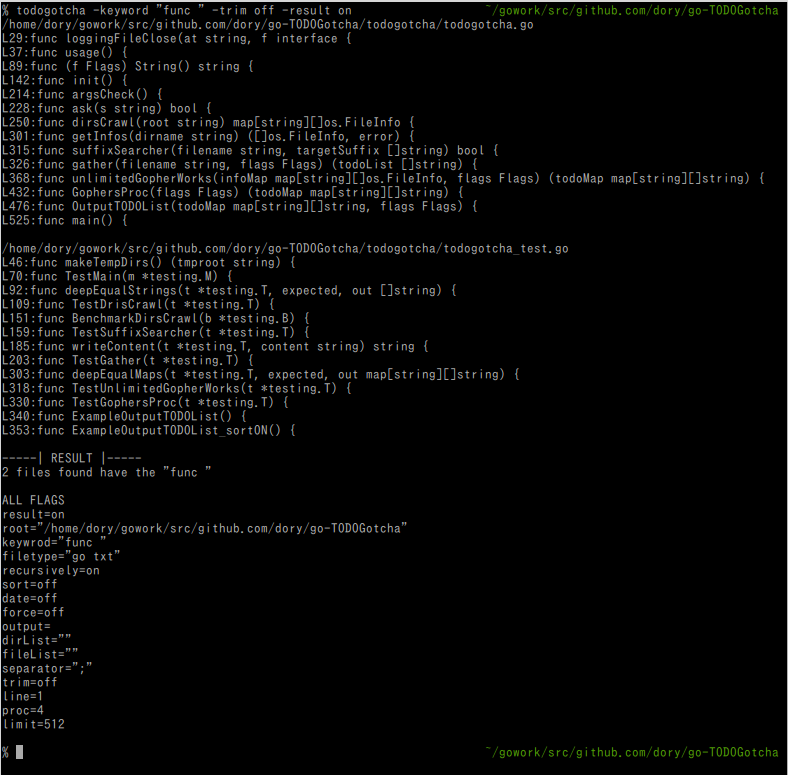
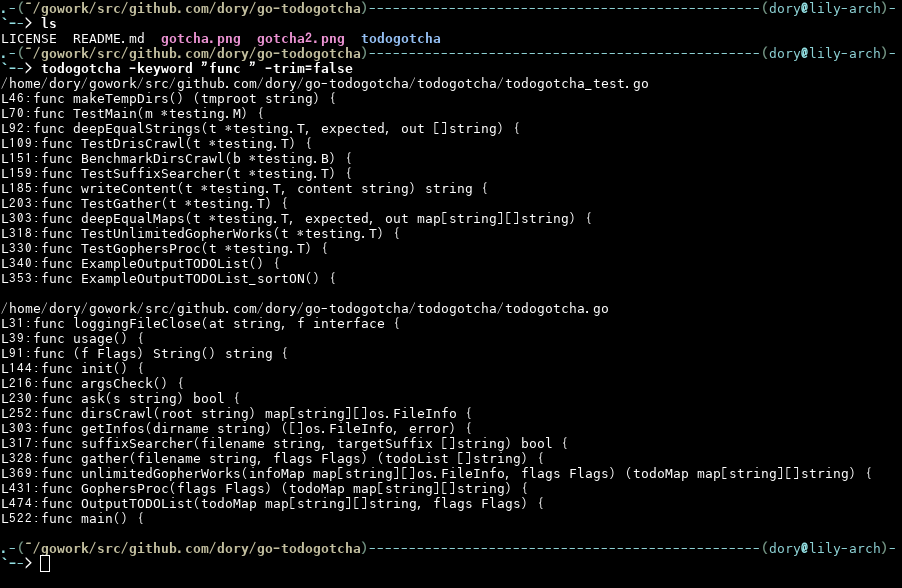
bata  Changes to be committed: 	modified:   README.md 	modified:   gotcha.png 	modified:   gotcha2.png 	modified:   todogotcha/todogotcha.go 	modified:   todogotcha/todogotcha_test.go

diff --git a/todogotcha/todogotcha.go b/todogotcha/todogotcha.go
@@ -1,6 +1,6 @@
 package main
 
-// TODO: エラーログの吐き方考えたい, error buffer 作って溜めてリザルトで吐く?
+// TODO: エラーログの吐き方 error buffer 作って溜めてリザルトで吐く?
 //     : 複数のgoroutineが同じロガーに同時にアクセスしてもlogがよろしくやってくれるのか調べてない
 //     : 普通に考えたら裏で常に走りながらチャンネルで待ち受けてそうだけどどうだろう
 //     : pkgのsrcみると大丈夫そう
@@ -11,6 +11,8 @@ package main
 //     : goroutineいっぱい使ってみたい
 
 // TODO: Refactor, フラグにくっついてるflag.dataの初期化をinitからレシーバに切り出す
+
+// TODO: Review, To simple
 
 import (
 	"bufio"
@@ -59,16 +61,16 @@ type Flags struct {
 	fileList    *string
 	dirList     *string
 	separator   *string
-	recursively *string
+	recursively *bool
 
 	// Flags for Output
-	result *string
 	output *string
-	force  *string
-	sort   *string
-	date   *string
+	result *bool
+	force  *bool
+	sort   *bool
+	date   *bool
 
-	trim  *string
+	trim  *bool
 	lines *uint
 
 	// TODO: Specify GOMAXPROCS. Maybe future delete this
@@ -109,28 +111,28 @@ func (f Flags) String() string {
 	tmp += fmt.Sprintf("proc=%v\n", runtime.GOMAXPROCS(0))
 	tmp += fmt.Sprintf("limit=%v\n", *flags.limit)
 	return tmp
-	// NOTE: string(``)と+""でまとめてもいいけどわかりやすさと変更のためにこのままにする
+	// NOTE: string(``)と+""でまとめてもいいこのままで
 }
 
 // NOTE: goはこの書き方でもファイル内限定のstaticっぽい扱い
-var flags = &Flags{
-	root:    flag.String("root", "./", "Specify recursively-search root directory"),
-	suffix:  flag.String("filetype", "go txt", `Specify target file types into the " "`),
-	keyword: flag.String("keyword", "TODO: ", "Specify target for list"),
+var flags = Flags{
+	root:    flag.String("root", "./", "Specify directory recursively-search root"),
+	suffix:  flag.String("filetype", ".go .txt", `Specify target file types`),
+	keyword: flag.String("keyword", "TODO: ", "Specify word for list"),
 
-	fileList:  flag.String("file", "", `Specify list target files`),
-	dirList:   flag.String("dir", "", `Specify list target directories, is not recursive serach`),
-	separator: flag.String("separator", ";", "Specify separator for specify directories and files"),
+	fileList:  flag.String("file", "", `Specify files`),
+	dirList:   flag.String("dir", "", `Specify search to directories, is not recursive`),
+	separator: flag.String("separator", ";", "Specify separator for Flags(dir and file)"),
 
 	output: flag.String("output", "", "Specify output to filepath"),
-	force:  flag.String("force", "off", "Ignore override confirm [on:off]?"),
+	force:  flag.Bool("force", false, "Ignore override confirm [true:false]?"),
 
-	recursively: flag.String("recursively", "on", `If this "off", not recursive search from root [on:off]?`),
-	result:      flag.String("result", "off", "Output result for flags state [on:off]?"),
-	sort:        flag.String("sort", "off", "Sort from directory name [on:off]?"),
-	date:        flag.String("date", "off", "Date [on:off]?"),
+	recursively: flag.Bool("recursively", true, `If this false, not recursive search from root [true:false]?`),
+	result:      flag.Bool("result", false, "Output result for flags state [true:false]?"),
+	sort:        flag.Bool("sort", false, "Sort to-do list [true:false]?"),
+	date:        flag.Bool("date", false, "Date [true:false]?"),
 
-	trim:  flag.String("trim", "on", "Trim the keyword from output [on:off]?"),
+	trim:  flag.Bool("trim", true, "Trim the keyword from output [true:false]?"),
 	lines: flag.Uint("line", 1, "Specify number of lines for gather"),
 
 	proc:  flag.Int("proc", 0, "Specify GOMAXPROCS"),
@@ -173,7 +175,7 @@ func init() {
 			log.Fatalf("init:%v", err)
 		}
 		// Check override to specify output file
-		if _, errstat := os.Stat(cleanpath); errstat == nil && *flags.force == "off" {
+		if _, errstat := os.Stat(cleanpath); errstat == nil && *flags.force == false {
 			if !ask(fmt.Sprintf("Override? %v", cleanpath)) {
 				os.Exit(1)
 			}
@@ -314,7 +316,7 @@ func getInfos(dirname string) ([]os.FileInfo, error) {
 
 func suffixSearcher(filename string, targetSuffix []string) bool {
 	for _, x := range targetSuffix {
-		if strings.HasSuffix(filename, "."+x) {
+		if strings.HasSuffix(filename, x) {
 			return true
 		}
 	}
@@ -339,18 +341,18 @@ func gather(filename string, flags Flags) (todoList []string) {
 			return nil
 		}
 		if index := strings.Index(sc.Text(), *flags.keyword); index != -1 {
-			if *flags.trim == "off" {
-				todoList = append(todoList, fmt.Sprintf("L%v:%s", i, sc.Text()))
+			if *flags.trim {
+				todoList = append(todoList, fmt.Sprintf("L%v:%s", i, sc.Text()[index+len(*flags.keyword):]))
 				tmpLineCount = 1
 				continue
 			} else {
-				todoList = append(todoList, fmt.Sprintf("L%v:%s", i, sc.Text()[index+len(*flags.keyword):]))
+				todoList = append(todoList, fmt.Sprintf("L%v:%s", i, sc.Text()))
 				tmpLineCount = 1
 				continue
 			}
 		}
 		if tmpLineCount != 0 && tmpLineCount < *flags.lines {
-			// TODO: (´・ω・`)つ [refactor]
+			// TODO: refactor
 			//todoList = append(todoList, fmt.Sprintf(" %s:%s", strings.Repeat(" ", len(fmt.Sprintf("%v", i))),  sc.Text()))
 			todoList = append(todoList, fmt.Sprintf(" %v:%s", i, sc.Text()))
 			tmpLineCount++
@@ -364,7 +366,6 @@ func gather(filename string, flags Flags) (todoList []string) {
 // にゃん
 // NOTE: gopher増やしまくるとcloseが間に合わなくてosのfile descriptor上限に突っかかる
 // goroutine にリミットを付けてファイルオープンを制限して上限に引っかからない様にしてみる
-// TODO: Review, To simple
 func unlimitedGopherWorks(infoMap map[string][]os.FileInfo, flags Flags) (todoMap map[string][]string) {
 
 	todoMap = make(map[string][]string)
@@ -407,7 +408,6 @@ func unlimitedGopherWorks(infoMap map[string][]os.FileInfo, flags Flags) (todoMa
 
 				// NOTE: Countermove "too many open files"
 				// gophersLimiterの読み出しで値が不確定だけどこれは大体合ってれば問題ないはず
-				// TODO: それでも気になるので、速度を落とさずいい方法があれば修正する
 				if gophersLimiter > gophersLimit/2 {
 					time.Sleep(time.Microsecond)
 				}
@@ -428,12 +428,11 @@ func unlimitedGopherWorks(infoMap map[string][]os.FileInfo, flags Flags) (todoMa
 }
 
 // GophersProc generate TODOMap from file list! gatcha!!
-// TODO: Refactor, To simple!
 func GophersProc(flags Flags) (todoMap map[string][]string) {
 	infoMap := make(map[string][]os.FileInfo)
 
 	// For recursively switch
-	if *flags.recursively == "on" {
+	if *flags.recursively {
 		infoMap = dirsCrawl(*flags.root)
 	} else {
 		infos, err := getInfos(*flags.root)
@@ -472,7 +471,6 @@ func GophersProc(flags Flags) (todoMap map[string][]string) {
 }
 
 // OutputTODOList is output crawl results
-// TODO: Refactor, Fix to Duplication
 func OutputTODOList(todoMap map[string][]string, flags Flags) {
 	// For Specify output file
 	stdout := os.Stdout
@@ -486,7 +484,7 @@ func OutputTODOList(todoMap map[string][]string, flags Flags) {
 	}
 
 	// For sort
-	if *flags.sort == "on" {
+	if *flags.sort {
 		// Optional
 		var filenames []string
 		for filename := range todoMap {
@@ -511,18 +509,17 @@ func OutputTODOList(todoMap map[string][]string, flags Flags) {
 		}
 	}
 
-	if *flags.result == "on" {
+	if *flags.result {
 		fmt.Fprintln(stdout, "-----| RESULT |-----")
 		fmt.Fprintf(stdout, "%v files found have the %q\n\n", len(todoMap), *flags.keyword)
-
 		fmt.Fprintln(stdout, flags)
 	}
-	if *flags.date == "on" {
+	if *flags.date {
 		fmt.Fprintf(stdout, "\nDATE:%v\n", time.Now())
 	}
 }
 
 func main() {
-	todoMap := GophersProc(*flags)
-	OutputTODOList(todoMap, *flags)
+	todoMap := GophersProc(flags)
+	OutputTODOList(todoMap, flags)
 }

diff --git a/todogotcha/todogotcha_test.go b/todogotcha/todogotcha_test.go
@@ -149,7 +149,7 @@ func TestDrisCrawl(t *testing.T) {
 }
 
 func BenchmarkDirsCrawl(b *testing.B) {
-	flagsTest := *flags
+	flagsTest := flags
 	*flagsTest.root = TmpRoot
 	for i := 0; i < b.N; i++ {
 		_ = dirsCrawl(*flagsTest.root)
@@ -158,8 +158,8 @@ func BenchmarkDirsCrawl(b *testing.B) {
 
 func TestSuffixSearcher(t *testing.T) {
 	targetSuffix := []string{
-		"go",
-		"txt",
+		".go",
+		".txt",
 	}
 	fileNames := []string{
 		"test1.go",
@@ -272,7 +272,7 @@ case empty keyword
 	}
 
 	run := func(data test, keyword string) {
-		flagsTest := *flags
+		flagsTest := flags
 		*flagsTest.keyword = keyword
 		filename := writeContent(t, data.filecontent)
 		defer func() {
@@ -322,14 +322,14 @@ func TestUnlimitedGopherWorks(t *testing.T) {
 	infomap := dirsCrawl(TmpRoot)
 
 	expected := make(map[string][]string)
-	out := unlimitedGopherWorks(infomap, *flags)
+	out := unlimitedGopherWorks(infomap, flags)
 	deepEqualMaps(t, expected, out)
 }
 
 // Integration test
 func TestGophersProc(t *testing.T) {
 	// empty
-	flagsTest := *flags
+	flagsTest := flags
 	*flagsTest.root = TmpRoot
 	out := GophersProc(flagsTest)
 	expected := make(map[string][]string)
@@ -342,9 +342,9 @@ func ExampleOutputTODOList() {
 	todoMap["/tmp/test"] = []string{"L1: test"}
 
 	// flgas
-	flagsTest := *flags
-	*flagsTest.sort = "off"
-	*flagsTest.result = "off"
+	flagsTest := flags
+	*flagsTest.sort = false
+	*flagsTest.result = false
 	OutputTODOList(todoMap, flagsTest)
 	// Unordered Output:
 	// /tmp/test
@@ -356,9 +356,9 @@ func ExampleOutputTODOList_sortON() {
 	todoMap["/a"] = []string{"L2: sort on"}
 
 	// flgas
-	flagsTest := *flags
-	*flagsTest.sort = "on"
-	*flagsTest.result = "off"
+	flagsTest := flags
+	*flagsTest.sort = true
+	*flagsTest.result = false
 	OutputTODOList(todoMap, flagsTest)
 	// Output:
 	// /a

diff --git a/README.md b/README.md
@@ -3,8 +3,10 @@
 ガッチャ!  
 
 Search from current directory recursively  
-Create TODO list from search files  
-Show the TODO list  
+Create to-do list from search files  
+Show the to-do list  
+
+just like find, grep
 
 ## Example
 ---
@@ -12,7 +14,7 @@ Output from `todogotcha`
 ![gotcha](./gotcha.png "gotcha")  
 
 If you need make a list from function  
-`todogotcha -keyword "func " -trim off -result on`  
+`todogotcha -keyword "func " -trim=false`  
 ![gotcha2](./gotcha2.png "gotcha2")  
 
 ## Installation
@@ -23,7 +25,7 @@ go get github.com/dorymint/go-todogotcha/todogotcha
 
 ## Usage
 ---
-Display the found TODO list like example
+Display the found to-do list like example
 ```
 todogotcha
 ```
@@ -42,34 +44,37 @@ todogotcha -h
 
 | Flags | Description | Default |
 | :---- | :---------- | :------ |
-| root  | Search root directory | ./ |
-| filetype | Target filetypes | "go txt" |
-| keyword | Specify target for list | "TODO: " |
-| file | Target file list | "" |
-| dir | Directory list, is do not recursive search | "" |
-| separator | Specify separator for directoris and files | ; |
+| root  | Search root | ./ |
+| filetype | Target filetypes(suffix) | ".go .txt" |
+| keyword | Specify target | "TODO: " |
+| file | Specify target files | "" |
+| dir | Specify directory list, is do not recursive | "" |
+| separator | separator for Flags(dir and file) | ; |
 | output | Output filepath | "" |
-| force | Ignore override confirm [on:off]? | off |
-| recursively | Recursive search from root [on:off]? | on |
-| result | Result for flags state [on:off]? | off |
-| sort | Sort for directory name [on:off]? | off |
-| date | Add date [on:off]? | off |
-| trim | Trim the keyword from output [on:off]? | on |
-| line | Specify number of lines for gather | 1 |
+| force | Ignore override confirm [true:false]? | false |
+| recursively | Recursive search from root [true:false]? | true |
+| result | Result for flags state [true:false]? | false |
+| sort | For output [true:false]? | false |
+| date | Add date [true:false]? | false |
+| trim | Trim the keyword from output [true:false]? | true |
+| line | Specify number of lines for gather from the keyword | 1 |
 | limit | Specify limit of goroutine, for file descriptor | 512 |
-| proc | Specify GOMAXPROCS | automatic setting |
+| proc | Specify GOMAXPROCS(0 that means automatic) | 0 |
 
 **This example is changed default option**
 ```
-todogotcha -root "../../" \
+todogotcha -root "./path/to/search/root/" \
+          -recursively=false \
+          -trim=false \
           -keyword "NOTE: " \
           -line 2 \
-          -filetype "cpp py txt go" \
+          -filetype ".cpp .py .txt .go" \
+          -separator ";"
           -dir "./path/to/dir1/;../path/to/dir2/" \
           -file "./path/to/file1;../path/to/file2" \
-          -date on \
-          -proc 2 \
-          -result on
+          -date=true \
+          -proc 1 \
+          -result=true
 ```
 
 ## Licence
